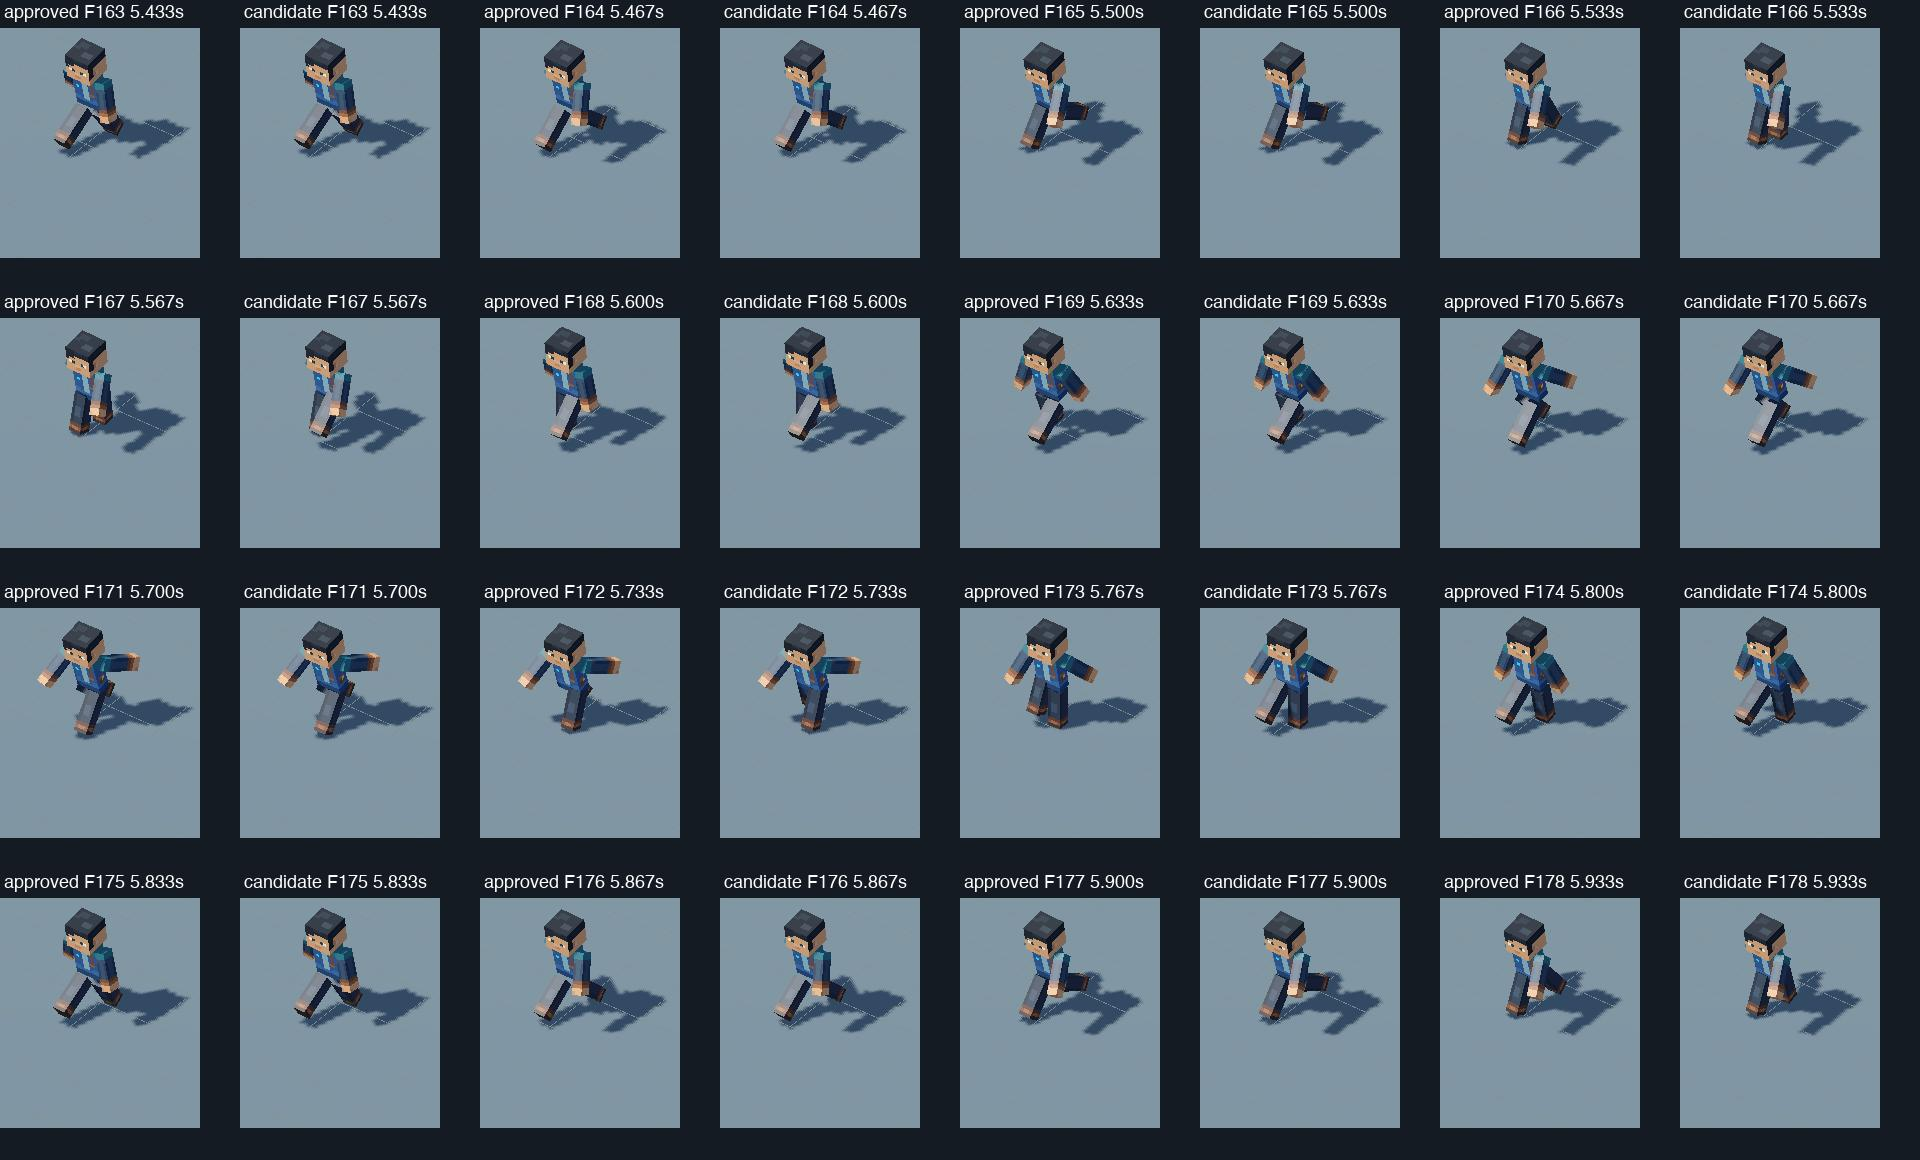
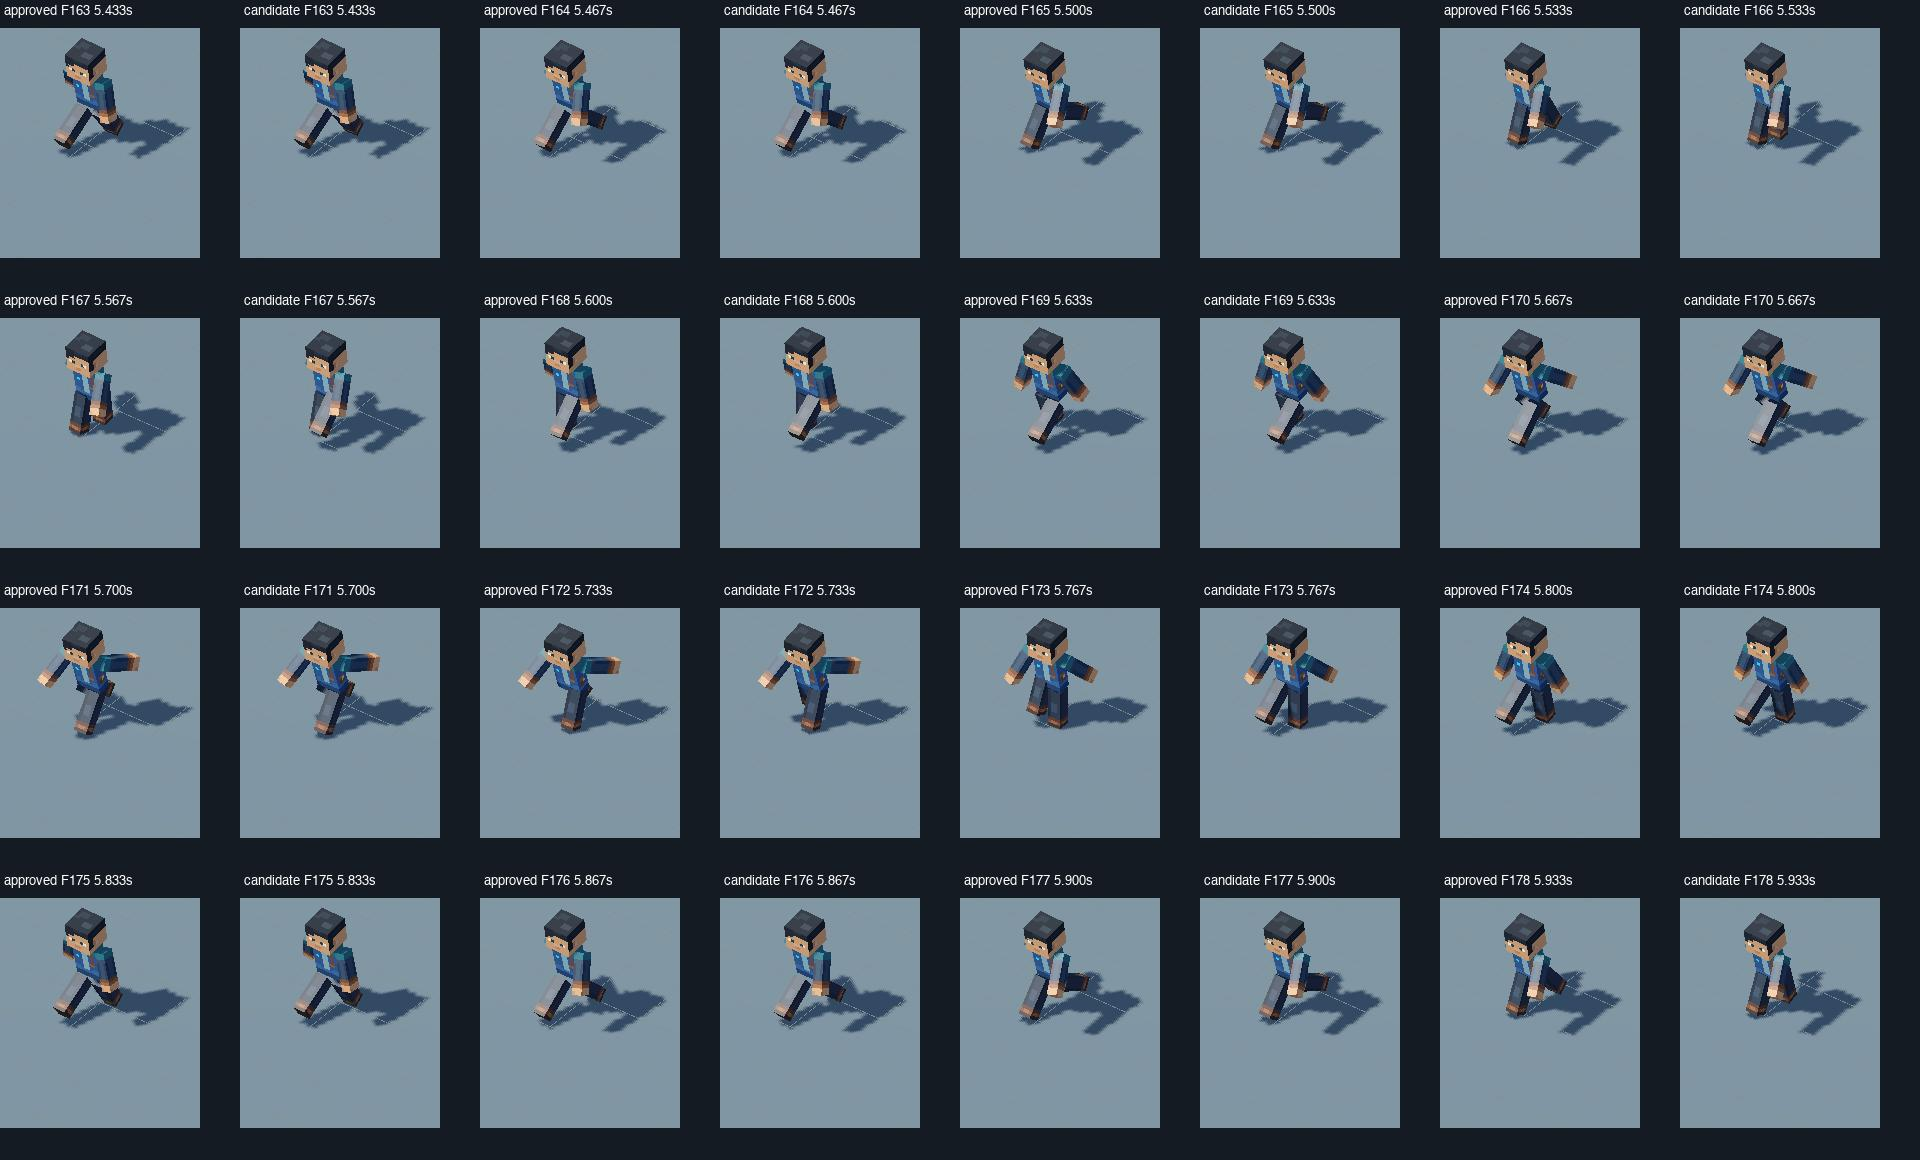
chore: checkpoint completed project changes

diff --git a/docs/superpowers/plans/2026-10-14-run-snappy-leg-recovery.md b/docs/superpowers/plans/2026-10-14-run-snappy-leg-recovery.md
@@ -28,30 +28,37 @@
 
 ### Task 1: Preserve and author the independent candidate
 
-- [ ] Record protected hashes, current library backup and actual source curves/geometry.
-- [ ] Define and run candidate preservation/contact tests before the candidate exists (expected missing candidate).
-- [ ] Copy approved Action, author bounded free-leg recovery time warp with world-space height compensation; save new source only.
-- [ ] Verify non-leg curve identity, rig/material preservation, source contacts/clearance/rigidity, loop and faster exchange.
+- [x] Record protected hashes, current library backup and actual source curves/geometry.
+- [x] Define and run candidate preservation/contact tests before the candidate exists (expected missing candidate).
+- [x] Copy approved Action, author bounded free-leg recovery time warp with world-space height compensation; save new source only.
+- [x] Verify non-leg curve identity, rig/material preservation, source contacts/clearance/rigidity, loop and faster exchange.
 
 ### Task 2: Register and produce Blender review
 
-- [ ] Append one Pending manifest entry; import into current Showcase with concurrent-edit guards.
-- [ ] Verify all previous Action signatures/entries, selection/slot/timing/views and reopen/playback.
-- [ ] Render front/three-quarter/side at original30FPS, five uninterrupted17-frame cycles; approved/candidate/reference comparisons.
+- [x] Append one Pending manifest entry; import into current Showcase with concurrent-edit guards.
+- [x] Verify all previous Action signatures/entries, selection/slot/timing/views and reopen/playback.
+- [x] Render front/three-quarter/side at original30FPS, five uninterrupted17-frame cycles; approved/candidate/reference comparisons.
 
 ### Task 3: Integrate A/B and validate in Godot
 
-- [ ] Write failing A/B selection/phase regression test; add separate candidate samples/library and minimal selector inside current writer.
-- [ ] Preserve existing style toggle; add separate candidate toggle with baseline default, no second writer.
-- [ ] Run native and fast/jump suites plus focused both-lead multi-phase transitions at rendered30/60FPS.
-- [ ] Inspect muted original-speed30FPS gameplay A/B before60FPS; reject and disable candidate on skating/pop/bounce/input regression.
+- [x] Write failing A/B selection/phase regression test; add separate candidate samples/library and minimal selector inside current writer.
+- [x] Preserve existing style toggle; add separate candidate toggle with baseline default, no second writer.
+- [x] Run native and fast/jump suites plus focused both-lead multi-phase transitions at rendered30/60FPS.
+- [x] Inspect muted original-speed30FPS gameplay A/B before60FPS; reject and disable candidate on skating/pop/bounce/input regression.
 
 ### Task 4: Final preservation and review handoff
 
-- [ ] Fresh independent review of changes and evidence; address material findings.
-- [ ] Verify all protected files outside the explicit experiment allowlist unchanged and document results/limitations.
-- [ ] Leave approved baseline default, candidate Pending, link Blender and gameplay reviews; stop for user review.
+- [x] Fresh independent review of changes and evidence; address material findings.
+- [x] Verify all protected files outside the explicit experiment allowlist unchanged and document results/limitations.
+- [x] Leave approved baseline default, candidate Pending, link Blender and gameplay reviews; stop for user review.
 
 ## Execution record
 
 - Work in the user's current checkout; existing local changes were recorded and backed up, never reset. No production changes or commits/pushes are required for this review experiment.
+
+- Task1 complete: missing-candidate RED observed; saved-source2177samples GREEN. Exact supported vertices/non-leg curves; corner-switch bake corrected without relaxing5µm envelope guard.
+- Task2 complete: current33-entry library rebaselined after concurrent Blockbench additions; append-only Pending registration34total, all prior signatures exact; eight85-frame30FPS videos and real GUI verification pass.
+- Task3 complete: missing-selector RED observed; selector GREEN. Candidate smoke suites72/native30,72/native60,45/fast30 pass. Focused trials1021checks/FPS:60GREEN,30has45failed displayed-step guards. Candidate rejected rather than promoted.
+- Task4 complete: fresh independent reviewer identified test gaps; fixed equal fixture lead, phase-timeout assertion, directRun stops and liveAB gates. Adjacent leg/torso penetration remains explicitly uncertified; no all-intersections claim. Final preservation/media reports linked in review.
+- Decision: work in the existing checkout with backups/hash guards so the requested central Showcase stays current. Concurrent additions were preserved; no resets or task-owned commits.
+- Decision: keep one authored candidate unchanged after gameplay rejection; no second tuning experiment. The source may be reviewed, but it is unsuitable for target30FPS promotion.

diff --git a/blender/animation/showcase/README.md b/blender/animation/showcase/README.md
@@ -1,3 +1,5 @@
+**Run Snappy Leg Recovery v001 —2026-10-14, Pending; gameplay rejected at30FPS:** separate `Run_Snappy_LegRecovery_Test_v001` from approved Run. Free-leg-only sagittal phase advance; upper-body curves/world poses and support geometry exact, sole-height difference0.00133mm, same17frames30FPS/cadence/bounce/speed/rig.2,177source samples, eight native1xBlender videos/five continuous cycles/reference comparison. Existing Showcase now34entries: preserve all33previous including five concurrent Blockbench additions; actual GUI two wraps/pause/restart/inactive reopen pass. Existing isolated Snappy tests expose B/Run A/B, approved default, same single writer/phase/contact/controller/camera/jump. Final16-phase paired trials, directRun stops/reversals/Walk↔Run/Run→Jump→Landing→Run:1,021checks per30/60FPS;60passesall,30fails45displayed-leg-step guards (~81deg versus59approved). Contacts/input/body targets preserved; reject for target30FPS, keep Pending for review, no production promotion or further variant. Torso/leg adjacent penetration is not certified by non-adjacent SAT suite. Source review `blender/animation/reviews/player_animation_library_v1/run_snappy_leg_recovery_v001/README.md`; runtime decision/media `docs/animation/reviews/godot_snappy_run_leg_recovery_v001/README.md`. Stop for user review.
+
 **Blockbench manual pose bridge — 2026-10-14, Pending:** separate Generic Model proxy and evaluated-transform importer in `blender/animation/blockbench_pipeline_v1/`. Original 13 bone names/parents/pivots retained; six rigid cuboids, whole straight arms and legs, locked identity ForeArm helpers. 16 BB units/m, (x,z,-y), evaluated world matrices/rest solve, existing mixed Euler/quaternion modes and Blender 5.2 slots preserved. Neutral/right arm/left arm/head tests passed before static `BB_Rifle_Ready_Pose_v001`, which round-trips F1 of approved Ready without changing it. Five independent Pending Actions appended to SAME showcase (33 total); all28 original signatures/entries and12 approved Actions retained in complete backups. 121 import samples/241 reference times per clip; largest between-key vertex error0.00438mm, saved matrix error1.79e-7, original Ready matrix error4.77e-7; actual rifle reference vertices within0.00040mm. Nine import tests,41 selection checks, fresh save/reopen and actual GUI3wraps/pause/restart passed. Visual review caught and corrected seed scientific-notation/Euler-convention errors and hidden rifle-mesh evaluation; independent original-reference checks added. Ordinary decimal smooth numeric bone keys only; unsupported expressions/step keys/scaling/controllers/global rotation rejected. Setup, limitations, paired previews and validation JSON in pipeline README. No Godot, production animation, original rig/mesh/material/source changes; awaiting explicit review.
 
 **Run V1 elastic running drive —2026-10-14, Pending:** same Run_Snappy_Test_v001/28entries. User requests jelly rebound, smoother motion and clearer running rather than walking. Add5deg hip lean (9.5deg total),12% stronger arm pitch/10% less flare, earlier event-shaped body recovery with10ms rounding and restrained delayed torso/shoulder/head. Hip range123.73mm, receiving dip50.72mm; first trough46.09ms/crest158.07ms versus51.56/188.54. Prior low world leg motion preserved in2177 paired samples; lower-of-two-feet peak73.42mm, support39/40%, flight62.33/56.67ms, same17frames30FPS/2.5m/s. No shared jump lift or deformation.2177 geometry checks, secondorder seam0.002419<.006/rawlegacyFalse retained;36 targeted Showcase checks/all28retained/all27otherActions-entries exact, GUI2wraps/pause/restart/inactive reopen.11H264935frames/five native cycles/reference-approvedRun-previousCompact comparisons. All7317 protectedfiles exact; earlier sources/backups/provisionalWalk/rig/Godot unchanged. Source33a62f5ba58a5743c1bc820f53fa2c77050a7292d5580fd815d3a6a8e85dd663; Action8e835f91c686d41bb1846fb0d7ddc151dc55a9178f87e27d845fc54f972cb156. Review blender/animation/reviews/player_animation_library_v1/run_snappy_test_v001/elastic_drive_v001/README.md. Stop for artistic review.

diff --git a/docs/animation/ANIMATION_PROGRESS.md b/docs/animation/ANIMATION_PROGRESS.md
@@ -1,3 +1,5 @@
+**Run Snappy Leg Recovery v001 —2026-10-14, Pending; gameplay rejected at30FPS:** separate `Run_Snappy_LegRecovery_Test_v001` from approved Run. Free-leg-only sagittal phase advance; upper-body curves/world poses and support geometry exact, sole-height difference0.00133mm, same17frames30FPS/cadence/bounce/speed/rig.2,177source samples, eight native1xBlender videos/five continuous cycles/reference comparison. Existing Showcase now34entries: preserve all33previous including five concurrent Blockbench additions; actual GUI two wraps/pause/restart/inactive reopen pass. Existing isolated Snappy tests expose B/Run A/B, approved default, same single writer/phase/contact/controller/camera/jump. Final16-phase paired trials, directRun stops/reversals/Walk↔Run/Run→Jump→Landing→Run:1,021checks per30/60FPS;60passesall,30fails45displayed-leg-step guards (~81deg versus59approved). Contacts/input/body targets preserved; reject for target30FPS, keep Pending for review, no production promotion or further variant. Torso/leg adjacent penetration is not certified by non-adjacent SAT suite. Source review `blender/animation/reviews/player_animation_library_v1/run_snappy_leg_recovery_v001/README.md`; runtime decision/media `docs/animation/reviews/godot_snappy_run_leg_recovery_v001/README.md`. Stop for user review.
+
 **Blockbench manual pose bridge — 2026-10-14, Pending:** separate Generic Model proxy and evaluated-transform importer in `blender/animation/blockbench_pipeline_v1/`. Original 13 bone names/parents/pivots retained; six rigid cuboids, whole straight arms and legs, locked identity ForeArm helpers. 16 BB units/m, (x,z,-y), evaluated world matrices/rest solve, existing mixed Euler/quaternion modes and Blender 5.2 slots preserved. Neutral/right arm/left arm/head tests passed before static `BB_Rifle_Ready_Pose_v001`, which round-trips F1 of approved Ready without changing it. Five independent Pending Actions appended to SAME showcase (33 total); all28 original signatures/entries and12 approved Actions retained in complete backups. 121 import samples/241 reference times per clip; largest between-key vertex error0.00438mm, saved matrix error1.79e-7, original Ready matrix error4.77e-7; actual rifle reference vertices within0.00040mm. Nine import tests,41 selection checks, fresh save/reopen and actual GUI3wraps/pause/restart passed. Visual review caught and corrected seed scientific-notation/Euler-convention errors and hidden rifle-mesh evaluation; independent original-reference checks added. Ordinary decimal smooth numeric bone keys only; unsupported expressions/step keys/scaling/controllers/global rotation rejected. Setup, limitations, paired previews and validation JSON in pipeline README. No Godot, production animation, original rig/mesh/material/source changes; awaiting explicit review.
 
 **Snappy cadence correction —2026-10-14:** user clarifies animation too fast, actual travel speed fine. Restore original FastJumpWalk3.0375/Run5.977875m/s; slow locomotion cadence25% using stride-distance/reach compensation, both A/B styles. Camera/jump/global time/Blender Actions unchanged. Supersedes earlier25% travel-speed reduction. Current checks/backups: .validation/snappy_cadence075_20261014.

diff --git a/AGENTS.md b/AGENTS.md
@@ -1,3 +1,5 @@
+**Run Snappy Leg Recovery v001 —2026-10-14, Pending; gameplay rejected at30FPS:** separate `Run_Snappy_LegRecovery_Test_v001` from approved Run. Free-leg-only sagittal phase advance; upper-body curves/world poses and support geometry exact, sole-height difference0.00133mm, same17frames30FPS/cadence/bounce/speed/rig.2,177source samples, eight native1xBlender videos/five continuous cycles/reference comparison. Existing Showcase now34entries: preserve all33previous including five concurrent Blockbench additions; actual GUI two wraps/pause/restart/inactive reopen pass. Existing isolated Snappy tests expose B/Run A/B, approved default, same single writer/phase/contact/controller/camera/jump. Final16-phase paired trials, directRun stops/reversals/Walk↔Run/Run→Jump→Landing→Run:1,021checks per30/60FPS;60passesall,30fails45displayed-leg-step guards (~81deg versus59approved). Contacts/input/body targets preserved; reject for target30FPS, keep Pending for review, no production promotion or further variant. Torso/leg adjacent penetration is not certified by non-adjacent SAT suite. Source review `blender/animation/reviews/player_animation_library_v1/run_snappy_leg_recovery_v001/README.md`; runtime decision/media `docs/animation/reviews/godot_snappy_run_leg_recovery_v001/README.md`. Stop for user review.
+
 **Snappy cadence correction —2026-10-14:** user clarifies animation too fast, actual travel speed fine. Restore original FastJumpWalk3.0375/Run5.977875m/s; slow locomotion cadence25% using stride-distance/reach compensation, both A/B styles. Camera/jump/global time/Blender Actions unchanged. Supersedes earlier25% travel-speed reduction. Current checks/backups: .validation/snappy_cadence075_20261014.
 
 **Snappy gameplay speed revision —2026-10-14:** user requests25% slower movement. FastJump test nowWalk2.278125/Run4.48340625m/s, same reduction both A/B styles. Distance-driven cadence and gait selection anchors updated together; existing camera/jump unchanged. Before-edit runtime backups and30/60FPS checks in .validation/snappy_speed075_20261014. No Blender or production changes.
